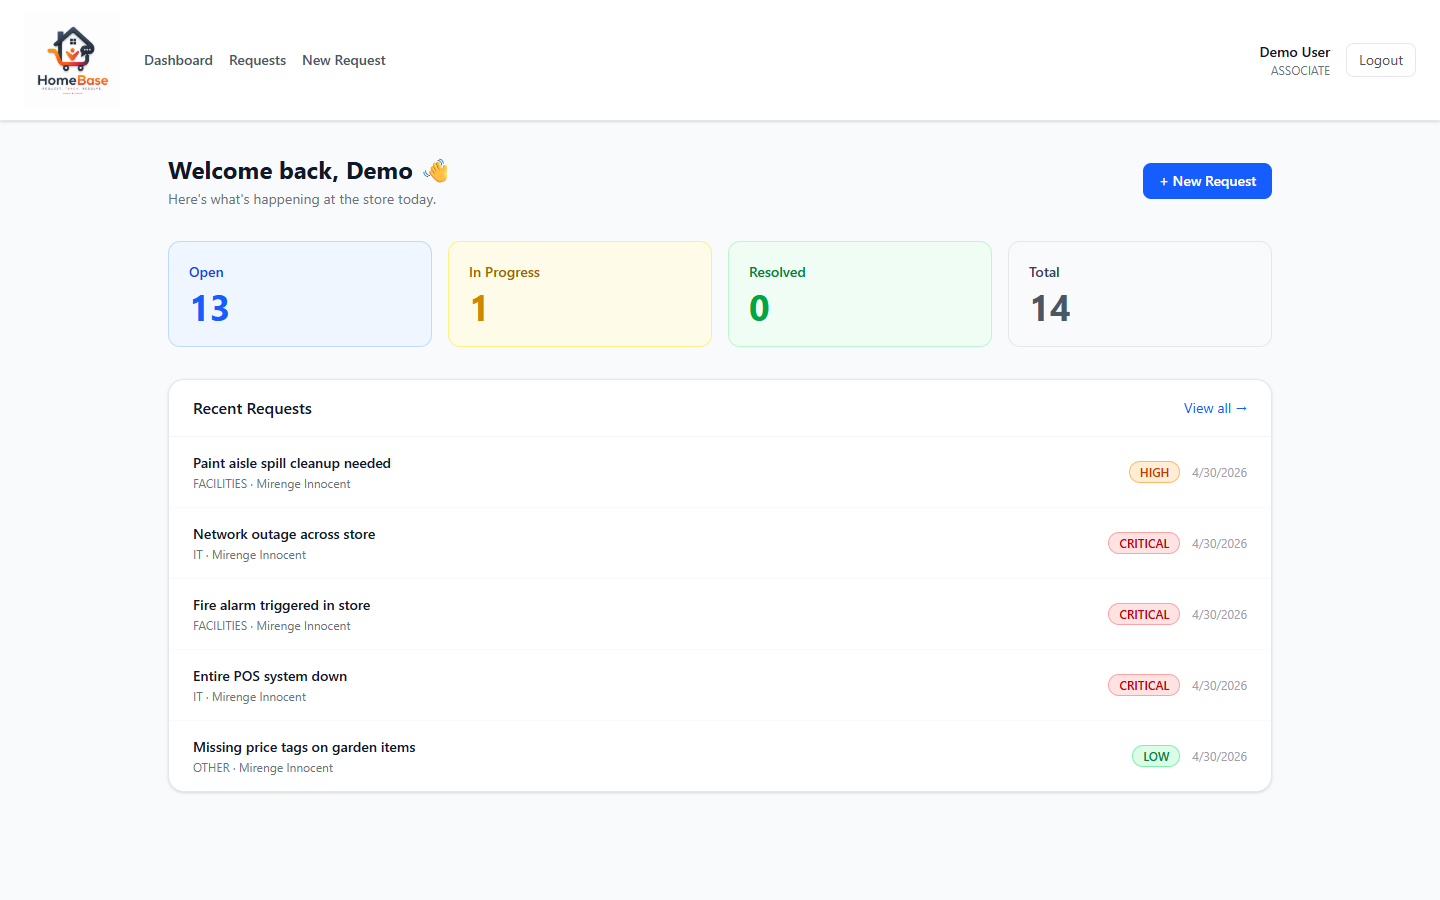
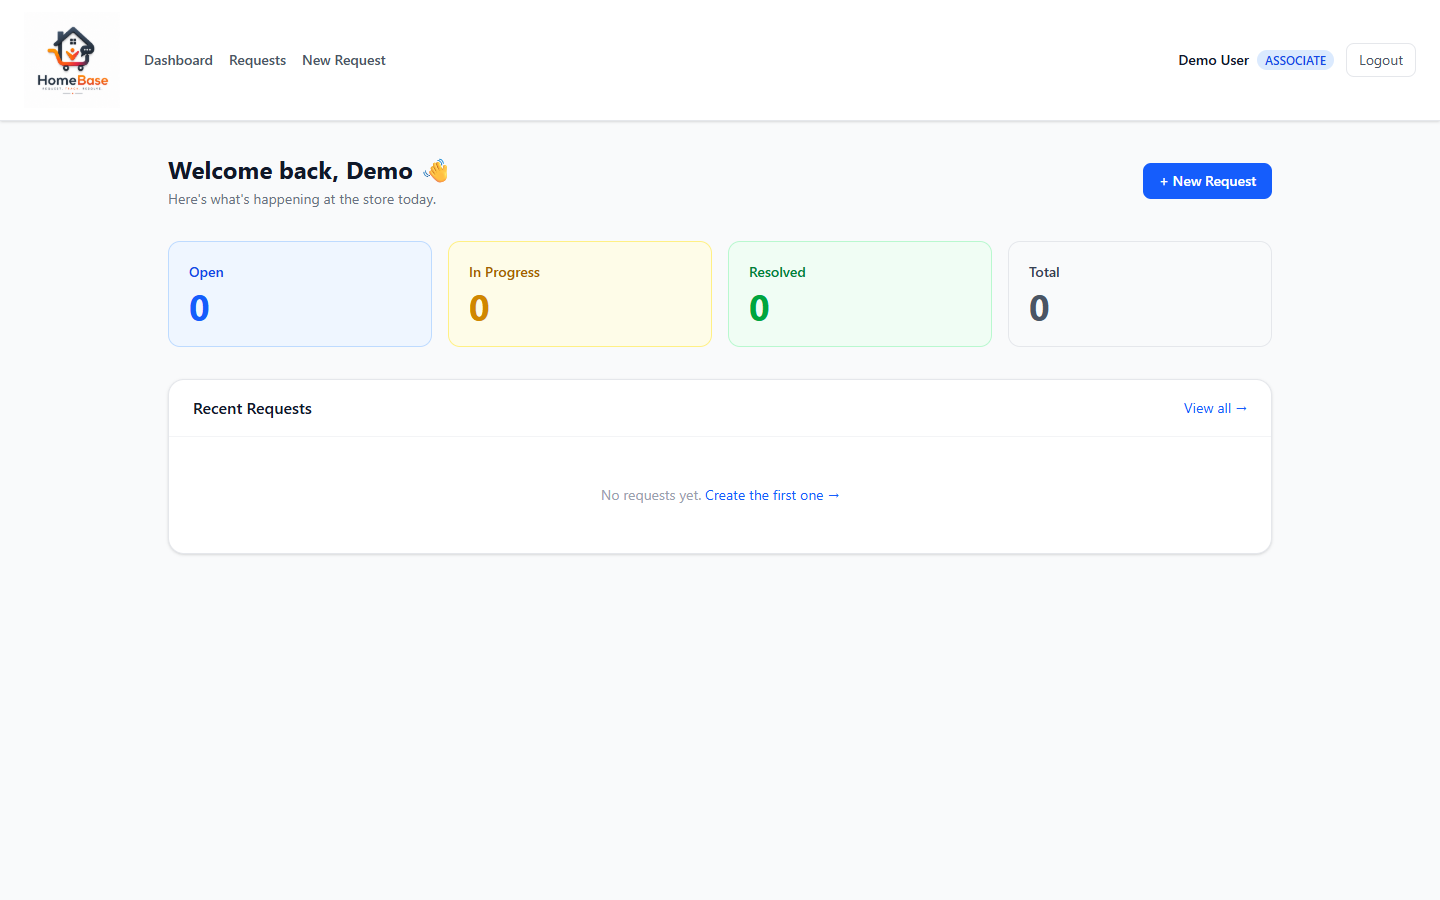
docs: update READMEs and screenshots for RBAC, comments, and analytics features

diff --git a/homebase-frontend/README.md b/homebase-frontend/README.md
@@ -6,7 +6,7 @@ React + TypeScript SPA for the HomeBase Store Support Center Portal.
 
 ## Overview
 
-The frontend is a single-page application built with React 19, TypeScript, Vite, and Tailwind CSS. It communicates with the Spring Boot backend at `http://localhost:8080` via Axios, and manages authentication state globally with React Context + localStorage.
+The frontend is a single-page application built with React 19, TypeScript, Vite, and Tailwind CSS. It communicates with the Spring Boot backend at `http://localhost:8080` via Axios, enforces role-based UI visibility, and manages authentication state globally with React Context + localStorage.
 
 ---
 
@@ -20,6 +20,10 @@ The frontend is a single-page application built with React 19, TypeScript, Vite,
 |---|---|
 | ![Requests](../docs/screenshots/requests.png) | ![Create Request](../docs/screenshots/create-request.png) |
 
+| Request Detail & Activity Log | Analytics Dashboard |
+|---|---|
+| ![Request Detail](../docs/screenshots/request-detail.png) | ![Analytics](../docs/screenshots/analytics.png) |
+
 ---
 
 ## Tech Stack
@@ -30,6 +34,7 @@ The frontend is a single-page application built with React 19, TypeScript, Vite,
 | TypeScript | Type safety | ~6.0 |
 | Vite | Build tool and dev server | 8.x |
 | Tailwind CSS | Utility-first styling | 4.x |
+| Recharts | Charts (bar, pie, line) | 3.x |
 | Axios | HTTP client | 1.7 |
 | React Router | Client-side routing | v7 |
 
@@ -37,12 +42,14 @@ The frontend is a single-page application built with React 19, TypeScript, Vite,
 
 ## Pages
 
-| Route | Page | Description |
-|---|---|---|
-| `/login` | `LoginPage` | Email + password sign-in form with HomeBase branding |
-| `/dashboard` | `DashboardPage` | Summary cards (Open / In Progress / Resolved / Total) + recent requests |
-| `/requests` | `RequestListPage` | Full paginated table with keyword search, status/priority/category filters, inline status updates |
-| `/requests/new` | `CreateRequestPage` | Form to submit a new request — title, description, priority, category |
+| Route | Page | Description | Access |
+|---|---|---|---|
+| `/login` | `LoginPage` | Email + password sign-in form with HomeBase branding | Public |
+| `/dashboard` | `DashboardPage` | Summary cards (Open / In Progress / Resolved / Total) + recent requests | All roles |
+| `/requests` | `RequestListPage` | Paginated table with keyword search, status/priority/category filters, inline status updates | All roles (Associates see own requests only) |
+| `/requests/:id` | `RequestDetailPage` | Full request view — metadata, status/priority badges, threaded activity log, add comment | All roles |
+| `/requests/new` | `CreateRequestPage` | Form to submit a new request — title, description, priority, category | All roles |
+| `/analytics` | `AnalyticsPage` | Bar/pie/line charts — category, status, priority, 7-day trend, avg resolution time | MANAGER / ADMIN only |
 
 ---
 
@@ -50,10 +57,10 @@ The frontend is a single-page application built with React 19, TypeScript, Vite,
 
 | Component | Description |
 |---|---|
-| `Navbar` | Top nav with links to Dashboard, Requests, New Request; shows current user name + role; Logout button |
+| `Navbar` | Top nav — links to Dashboard, Requests, New Request, Analytics (MANAGER/ADMIN only); shows user name with color-coded role badge (red=ADMIN, purple=MANAGER, blue=ASSOCIATE); Logout button |
 | `SummaryCard` | Dashboard stat card — label + count with color-coded border |
 | `PriorityBadge` | Colored pill badge for CRITICAL / HIGH / MEDIUM / LOW |
-| `RequestRow` | Table row for a single request in the list view with inline status dropdown |
+| `RequestRow` | Table row for a single request — title is a clickable link to the detail page; status dropdown is disabled for ASSOCIATE (shows "View only") |
 
 ---
 
@@ -63,21 +70,25 @@ The frontend is a single-page application built with React 19, TypeScript, Vite,
 src/
 ├── api/
 │   ├── axios.ts          # Axios instance — base URL + Authorization header injection
-│   └── requests.ts       # Typed API functions: createRequest, getRequests, updateRequest, getSummary
+│   ├── requests.ts       # Typed API functions: createRequest, getRequests, updateRequest, deleteRequest, getSummary
+│   ├── comments.ts       # getComments(requestId), addComment(requestId, body)
+│   └── analytics.ts      # getAnalyticsSummary() — ChartEntry and AnalyticsSummary types
 ├── components/
-│   ├── Navbar.tsx
+│   ├── Navbar.tsx         # Role-aware nav with colored role badge + Analytics link
 │   ├── PriorityBadge.tsx
 │   ├── SummaryCard.tsx
-│   └── RequestRow.tsx
+│   └── RequestRow.tsx     # Clickable title link; RBAC-conditional status dropdown
 ├── context/
 │   └── AuthContext.tsx    # Global auth state — user, token, login(), logout()
 ├── pages/
 │   ├── LoginPage.tsx
 │   ├── DashboardPage.tsx
 │   ├── RequestListPage.tsx
-│   └── CreateRequestPage.tsx
+│   ├── RequestDetailPage.tsx  # Request metadata + activity log + add comment
+│   ├── CreateRequestPage.tsx
+│   └── AnalyticsPage.tsx      # Recharts bar/pie/line; MANAGER/ADMIN only
 ├── types/
-│   └── index.ts           # TypeScript interfaces: User, Request, RequestSummary, etc.
+│   └── index.ts           # TypeScript interfaces: User, Request, Comment, RequestSummary, AnalyticsSummary, etc.
 ├── App.tsx                # Route definitions with protected route guard
 └── main.tsx               # App entry point
 ```
@@ -91,7 +102,20 @@ src/
 3. On success, `accessToken` and user info are stored in `localStorage`
 4. Axios interceptor reads the token from `localStorage` and injects `Authorization: Bearer <token>` on every request
 5. `App.tsx` wraps protected routes in a guard that redirects unauthenticated users to `/login`
-6. `AuthContext.logout()` clears `localStorage` and redirects to `/login`
+6. `AnalyticsPage` additionally checks `user.role` and redirects non-MANAGER/ADMIN users to `/dashboard`
+7. `AuthContext.logout()` clears `localStorage` and redirects to `/login`
+
+---
+
+## RBAC in the UI
+
+| UI Element | ASSOCIATE | MANAGER | ADMIN |
+|---|---|---|---|
+| Analytics nav link | Hidden | Visible | Visible |
+| Request list | Own requests only | All requests | All requests |
+| Status update dropdown | Disabled ("View only") | Enabled | Enabled |
+| Analytics page | Redirected to dashboard | Full access | Full access |
+| Role badge color | Blue | Purple | Red |
 
 ---
 

diff --git a/homebase-backend/README.md b/homebase-backend/README.md
@@ -6,7 +6,7 @@ Spring Boot REST API for the HomeBase Store Support Center Portal.
 
 ## Overview
 
-This is the backend service for HomeBase. It provides a secure JWT-authenticated REST API that manages users and operational requests. Built with Spring Boot 3.3, Spring Security, Hibernate/JPA, and PostgreSQL, with Flyway handling all schema migrations.
+This is the backend service for HomeBase. It provides a secure JWT-authenticated REST API with role-based access control (RBAC) that manages users, operational requests, comments, and analytics. Built with Spring Boot 3.3, Spring Security, Hibernate/JPA, and PostgreSQL, with Flyway handling all schema migrations.
 
 ---
 
@@ -44,13 +44,24 @@ src/main/java/com/homebase/
 ├── request/
 │   ├── Request.java                # JPA entity
 │   ├── RequestRepository.java      # JPA repository with Specification queries
-│   ├── RequestService.java         # Business logic — create, list, update, summary
-│   ├── RequestController.java      # POST/GET/PUT /api/requests
+│   ├── RequestService.java         # Business logic — create, list, update, delete; RBAC enforced
+│   ├── RequestController.java      # POST/GET/PUT/DELETE /api/requests
 │   └── dto/
 │       ├── CreateRequestDto.java
 │       ├── UpdateRequestDto.java
 │       ├── RequestResponseDto.java
 │       └── RequestSummaryDto.java
+├── comment/
+│   ├── Comment.java                # JPA entity — id, requestId, userId, body, createdAt
+│   ├── CommentRepository.java      # findByRequestIdOrderByCreatedAtAsc, countByRequestId
+│   ├── CommentService.java         # addComment, getComments
+│   ├── CommentController.java      # POST/GET /api/requests/{id}/comments
+│   └── dto/
+│       ├── CreateCommentDto.java   # body (max 1000 chars)
+│       └── CommentResponseDto.java # id, requestId, userId, userName, userRole, body, createdAt
+├── analytics/
+│   ├── AnalyticsController.java    # GET /api/analytics/summary (MANAGER/ADMIN only)
+│   └── AnalyticsService.java       # byCategory, byStatus, byPriority, last7DaysTrend, avgResolutionHours
 └── user/
     ├── User.java                   # JPA entity — id, fullName, email, passwordHash, role
     └── UserRepository.java
@@ -79,13 +90,39 @@ src/main/resources/
 
 ### Requests — Requires `Authorization: Bearer <token>`
 
-| Method | Endpoint | Description |
-|---|---|---|
-| POST | `/api/requests` | Create a new request |
-| GET | `/api/requests` | List requests with pagination and filters |
-| GET | `/api/requests/{id}` | Get a single request by ID |
-| PUT | `/api/requests/{id}` | Update title, description, status, priority, category |
-| GET | `/api/requests/summary` | Returns `{ open, inProgress, resolved, total }` |
+| Method | Endpoint | Description | RBAC |
+|---|---|---|---|
+| POST | `/api/requests` | Create a new request | Any role |
+| GET | `/api/requests` | List requests (paginated, filtered) | Associates: own requests only |
+| GET | `/api/requests/{id}` | Get a single request | Associates: own requests only |
+| PUT | `/api/requests/{id}` | Update title, description, status, priority, category | MANAGER / ADMIN |
+| DELETE | `/api/requests/{id}` | Permanently delete a request | ADMIN only |
+| GET | `/api/requests/summary` | Returns `{ open, inProgress, resolved, total }` | Associates: own counts only |
+
+### Comments — Requires `Authorization: Bearer <token>`
+
+| Method | Endpoint | Description | RBAC |
+|---|---|---|---|
+| POST | `/api/requests/{id}/comments` | Add a comment to a request | Any role |
+| GET | `/api/requests/{id}/comments` | Fetch comments in chronological order | Any role |
+
+### Analytics — Requires `Authorization: Bearer <token>`
+
+| Method | Endpoint | Description | RBAC |
+|---|---|---|---|
+| GET | `/api/analytics/summary` | Returns category, status, priority breakdowns + 7-day trend + avg resolution hours | MANAGER / ADMIN |
+
+**Analytics response shape:**
+```json
+{
+  "totalRequests": 19,
+  "byCategory": [{ "label": "IT", "count": 7 }, ...],
+  "byStatus":   [{ "label": "OPEN", "count": 16 }, ...],
+  "byPriority": [{ "label": "CRITICAL", "count": 5 }, ...],
+  "last7DaysTrend": [{ "label": "Apr 25", "count": 0 }, ...],
+  "avgResolutionHours": 2.4
+}
+```
 
 ### Query Parameters — `GET /api/requests`
 
@@ -99,6 +136,19 @@ src/main/resources/
 | `size` | int | Page size (default: `10`) |
 | `sortBy` | string | Sort field — `createdAt`, `priority`, `status` |
 | `sortDir` | string | `asc` \| `desc` |
+
+---
+
+## Role Permissions
+
+| Action | ASSOCIATE | MANAGER | ADMIN |
+|---|---|---|---|
+| Create request | Yes | Yes | Yes |
+| View requests / summary | Own only | All | All |
+| Update request | No | Yes | Yes |
+| Delete request | No | No | Yes |
+| Add / view comments | Yes | Yes | Yes |
+| View analytics | No | Yes | Yes |
 
 ---
 
@@ -130,6 +180,15 @@ PostgreSQL 17+ — Flyway manages all migrations.
 | `created_at` | TIMESTAMP | |
 | `updated_at` | TIMESTAMP | Auto-updated by DB trigger |
 
+### `comments`
+| Column | Type | Notes |
+|---|---|---|
+| `id` | UUID | Primary key |
+| `request_id` | UUID | FK → `requests.id` |
+| `user_id` | UUID | FK → `users.id` |
+| `body` | TEXT | Max 1000 chars |
+| `created_at` | TIMESTAMP | Immutable — set on insert |
+
 ### `status_history`
 | Column | Type | Notes |
 |---|---|---|
@@ -156,9 +215,10 @@ PostgreSQL 17+ — Flyway manages all migrations.
 ## Security Design
 
 - **JWT access tokens** — 15-minute expiry, validated on every request via `JwtAuthFilter`
-- **JWT refresh tokens** — 7-day expiry, stored in `AuthResponse` for the client to use
+- **JWT refresh tokens** — 7-day expiry, returned in `AuthResponse` for client-side storage
 - **Passwords** — hashed with bcrypt via Spring Security's `PasswordEncoder`
-- **Public routes** — `POST /api/auth/register` and `POST /api/auth/login` are unauthenticated; all others require a valid Bearer token
+- **Public routes** — `/api/auth/register` and `/api/auth/login` are unauthenticated; all others require a valid Bearer token
+- **RBAC** — `RequestService` enforces role checks at the service layer; `@PreAuthorize` annotations guard update (MANAGER/ADMIN) and delete (ADMIN) endpoints; `AnalyticsController` restricts analytics to MANAGER/ADMIN
 - **CORS** — `localhost:5173` allowed in dev profile; tightened in prod
 
 ---

diff --git a/README.md b/README.md
@@ -22,6 +22,10 @@ Built as a showcase project for the **Home Depot Software Engineering Internship
 |---|---|
 | ![Requests](docs/screenshots/requests.png) | ![Create Request](docs/screenshots/create-request.png) |
 
+| Request Detail & Activity Log | Analytics Dashboard |
+|---|---|
+| ![Request Detail](docs/screenshots/request-detail.png) | ![Analytics](docs/screenshots/analytics.png) |
+
 ---
 
 ## Tech Stack
@@ -34,6 +38,7 @@ Built as a showcase project for the **Home Depot Software Engineering Internship
 | ORM | Hibernate / Spring Data JPA | via Spring Boot 3.3 |
 | Frontend | React, TypeScript, Vite | React 19, TypeScript 6 |
 | Styling | Tailwind CSS | 4.x |
+| Charts | Recharts | 3.x |
 | HTTP Client | Axios | 1.7 |
 | Routing | React Router | v7 |
 | Build (backend) | Maven | 3.9+ |
@@ -49,17 +54,17 @@ Built as a showcase project for the **Home Depot Software Engineering Internship
 - Role-based users — ASSOCIATE, MANAGER, ADMIN
 - Create operational requests with title, description, priority, and category
 - List requests with pagination, search, status/priority/category filters
-- Inline status updates — OPEN → IN_PROGRESS → RESOLVED
-- Dashboard with live summary cards (Open, In Progress, Resolved, Total)
 - Color-coded priority badges — CRITICAL, HIGH, MEDIUM, LOW
+- Dashboard with live summary cards (Open, In Progress, Resolved, Total)
 - Protected routes — unauthenticated users redirected to login
 - Persistent sessions — JWT stored in localStorage survives page refresh
 - CORS configured for local development
+- **RBAC** — Associates see and manage only their own requests; Managers can view and update all; Admins have full access including delete
+- **Comments & activity log** — threaded comments per request with user name, role badge, and timestamp
+- **Request detail page** — full view of a single request with metadata, status/priority badges, and activity log
+- **Analytics dashboard** — bar, pie, and line charts for category, status, priority breakdowns and 7-day trend; MANAGER/ADMIN only
 
 ### Coming Soon
-- Role-based access control (RBAC) — restrict actions by role
-- Comments and activity log per request
-- Analytics — resolution time, trends, category breakdown charts
 - Email notification simulation
 - Docker Compose full-stack setup
 - GitHub Actions CI/CD pipeline
@@ -74,11 +79,14 @@ homebase/
 ├── homebase-backend/               # Spring Boot REST API
 │   ├── src/main/java/com/homebase/
 │   │   ├── auth/                   # JWT auth — register, login
-│   │   │   ├── dto/                # Request/response DTOs
+│   │   │   ├── dto/
 │   │   │   └── jwt/                # JwtUtil, JwtAuthFilter
 │   │   ├── config/                 # SecurityConfig, CorsConfig
-│   │   ├── request/                # Request entity, service, controller
+│   │   ├── request/                # Request entity, service, controller (RBAC-enforced)
 │   │   │   └── dto/
+│   │   ├── comment/                # Comment entity, service, controller
+│   │   │   └── dto/
+│   │   ├── analytics/              # AnalyticsController, AnalyticsService
 │   │   └── user/                   # User entity, repository
 │   └── src/main/resources/
 │       ├── application.yaml        # Multi-profile config (dev/prod)
@@ -86,10 +94,11 @@ homebase/
 │
 ├── homebase-frontend/              # React + TypeScript SPA
 │   └── src/
-│       ├── api/                    # Axios instance + typed API functions
+│       ├── api/                    # Axios instance + typed API modules
 │       ├── components/             # Navbar, PriorityBadge, SummaryCard, RequestRow
 │       ├── context/                # AuthContext — global auth state
-│       ├── pages/                  # Login, Dashboard, RequestList, CreateRequest
+│       ├── pages/                  # Login, Dashboard, RequestList, RequestDetail,
+│       │                           #   CreateRequest, Analytics
 │       └── types/                  # TypeScript interfaces
 │
 └── docs/
@@ -164,13 +173,27 @@ App available at `http://localhost:5173`
 
 ### Requests
 
+| Method | Endpoint | Description | RBAC |
+|---|---|---|---|
+| POST | `/api/requests` | Create a new request | Any role |
+| GET | `/api/requests` | List requests (paginated, filtered) | Associates see own only |
+| GET | `/api/requests/{id}` | Get a single request | Associates see own only |
+| PUT | `/api/requests/{id}` | Update a request | MANAGER / ADMIN |
+| DELETE | `/api/requests/{id}` | Delete a request | ADMIN only |
+| GET | `/api/requests/summary` | Dashboard summary counts | Associates see own counts |
+
+### Comments
+
 | Method | Endpoint | Description | Auth |
 |---|---|---|---|
-| POST | `/api/requests` | Create a new request | Required |
-| GET | `/api/requests` | List requests (paginated, filtered) | Required |
-| GET | `/api/requests/{id}` | Get a single request | Required |
-| PUT | `/api/requests/{id}` | Update a request | Required |
-| GET | `/api/requests/summary` | Dashboard summary counts | Required |
+| POST | `/api/requests/{id}/comments` | Add a comment to a request | Required |
+| GET | `/api/requests/{id}/comments` | Get all comments for a request | Required |
+
+### Analytics
+
+| Method | Endpoint | Description | RBAC |
+|---|---|---|---|
+| GET | `/api/analytics/summary` | Category, status, priority, trend data | MANAGER / ADMIN |
 
 ### Query Parameters — `GET /api/requests`
 
@@ -184,6 +207,20 @@ App available at `http://localhost:5173`
 | `size` | Items per page | default `10` |
 | `sortBy` | Sort field | `createdAt`, `priority`, `status` |
 | `sortDir` | Sort direction | `asc`, `desc` |
+
+---
+
+## Role Permissions
+
+| Action | ASSOCIATE | MANAGER | ADMIN |
+|---|---|---|---|
+| Register / Login | Yes | Yes | Yes |
+| Create request | Yes | Yes | Yes |
+| View requests | Own only | All | All |
+| Update request | No | Yes | Yes |
+| Delete request | No | No | Yes |
+| Add / view comments | Yes | Yes | Yes |
+| View analytics | No | Yes | Yes |
 
 ---
 
